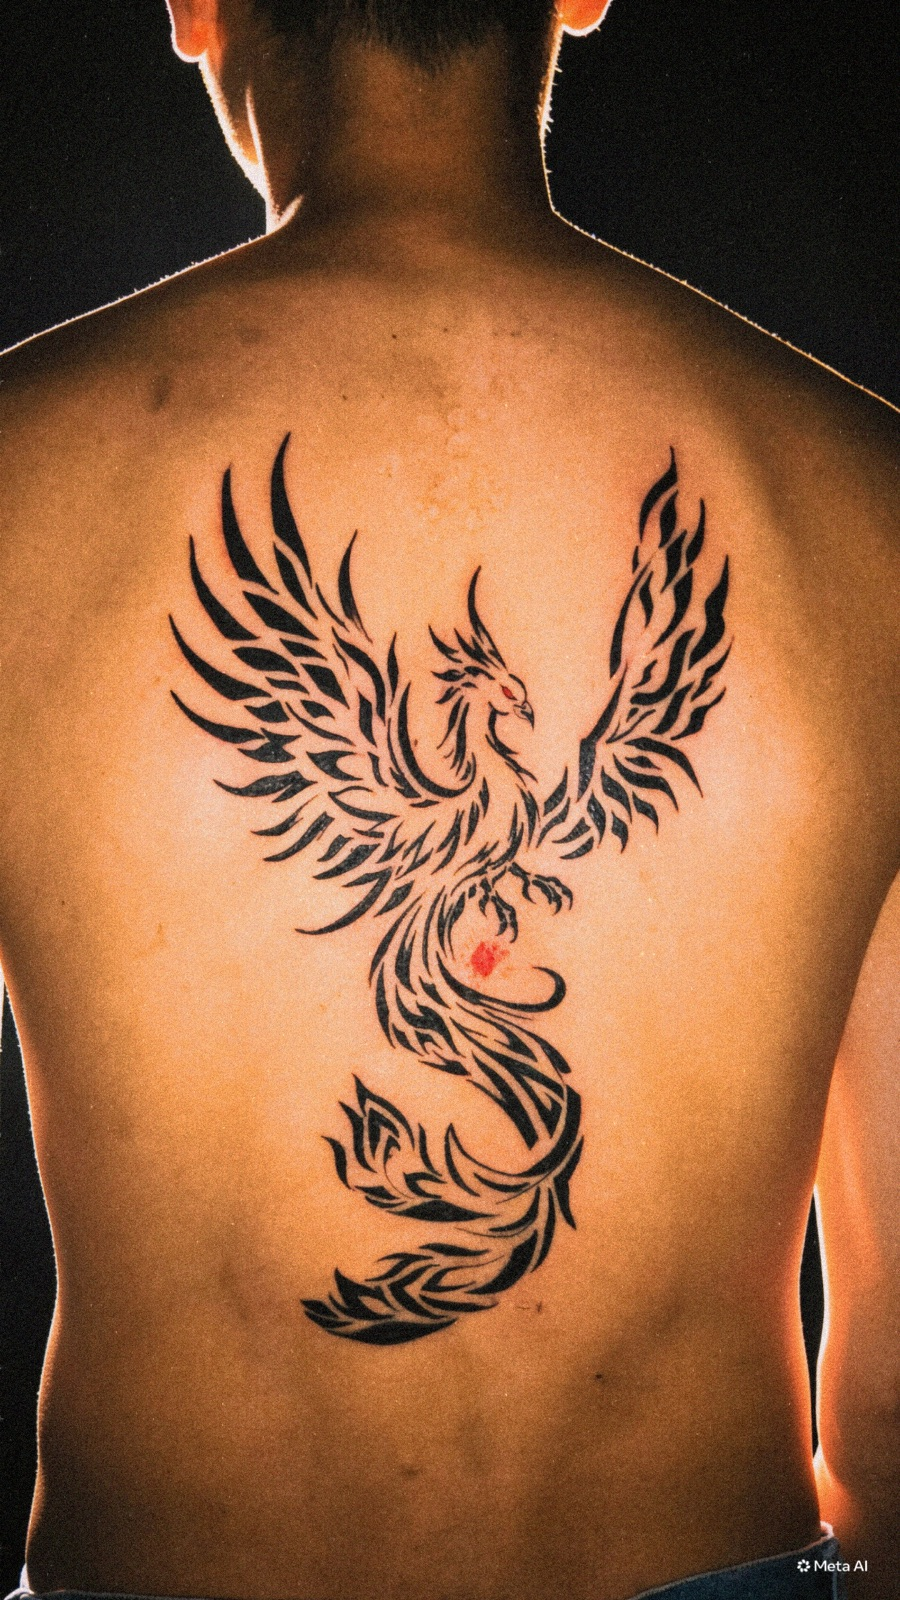
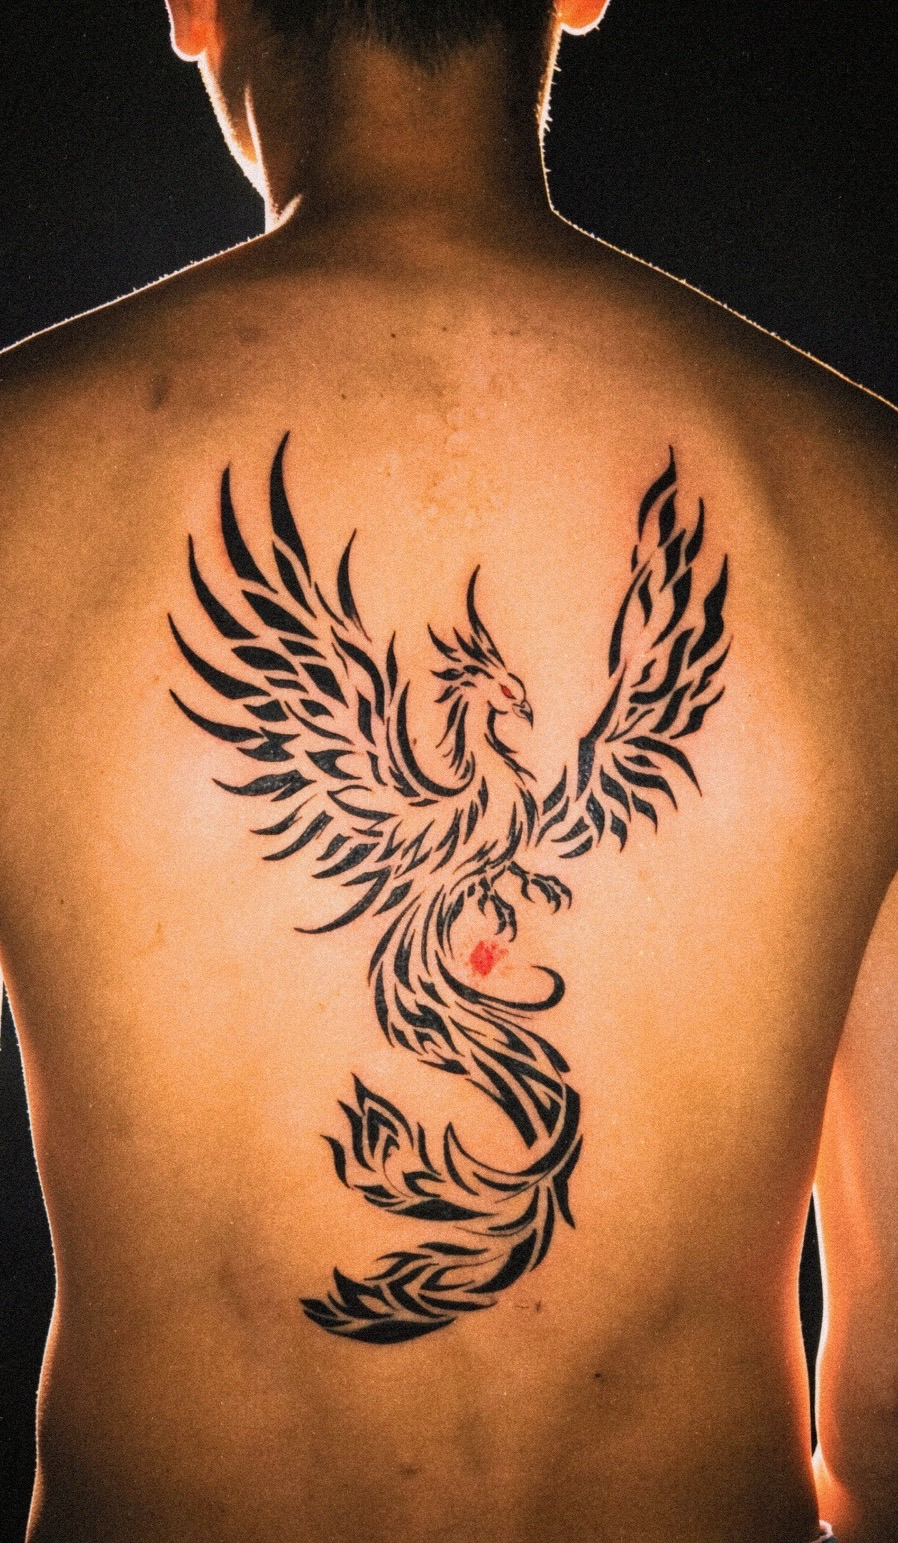
Capa com O Eixo, a pergunta do fim (o que vamos tatuar?), o studio no O dia, imagem do link corrigida, sem a marca da IA na fênix

diff --git a/index.html b/index.html
@@ -79,7 +79,7 @@ body::after{content:"";position:fixed;inset:0;pointer-events:none;z-index:100;op
 .capa{position:relative;overflow:hidden}
 .capa-foto{position:relative;height:60svh;min-height:400px;overflow:hidden;
   -webkit-mask-image:linear-gradient(180deg,#000 0%,#000 60%,transparent 97%);mask-image:linear-gradient(180deg,#000 0%,#000 60%,transparent 97%)}
-.capa-foto img{position:absolute;inset:0;width:100%;height:100%;object-fit:cover;object-position:50% 42%;transform:scale(1.04);animation:respira 18s ease-out forwards}
+.capa-foto img{position:absolute;inset:0;width:100%;height:100%;object-fit:cover;object-position:50% 30%;transform:scale(1.04);animation:respira 18s ease-out forwards}
 @keyframes respira{to{transform:scale(1)}}
 .capa-foto::after{content:"";position:absolute;inset:0;
   background:linear-gradient(180deg,rgba(11,11,11,.55) 0%,rgba(11,11,11,0) 20%,rgba(11,11,11,0) 48%,rgba(11,11,11,.7) 74%,var(--preto) 94%)}
@@ -164,7 +164,28 @@ section{padding:48px 0}
 .fim{text-align:left;padding:60px 0 72px}
 .fim h2{font-size:clamp(46px,9.5vw,132px);max-width:14ch}
 .fim p{margin-top:20px;font-size:clamp(18px,2vw,21px);color:var(--cinza);max-width:38ch}
-.fim .acoes{margin-top:34px}
+.mimos{list-style:none;display:flex;flex-wrap:wrap;gap:8px;margin-top:20px}
+.mimos li{font-size:13px;letter-spacing:.04em;padding:8px 13px;border:1px solid var(--linha);border-radius:999px;color:var(--off)}
+.escolha{margin-top:34px;max-width:720px}
+.escolha fieldset{border:0;padding:0;margin:0;min-width:0}
+.escolha legend{padding:0;margin-bottom:14px}
+.opcoes{display:grid;gap:10px}
+.opcao{position:relative;display:block;padding:18px 18px 18px 52px;border:1px solid var(--linha);border-radius:14px;cursor:pointer;transition:border-color .2s,background .2s}
+.opcao input{position:absolute;opacity:0;pointer-events:none}
+.opcao::before{content:"";position:absolute;left:18px;top:20px;width:18px;height:18px;border-radius:50%;border:1.5px solid var(--cinza);transition:all .2s}
+.opcao:hover{border-color:rgba(236,232,225,.35)}
+.opcao.marcada{border-color:var(--ciano);background:rgba(79,211,234,.06)}
+.opcao.marcada::before{border-color:var(--ciano);background:var(--ciano);box-shadow:inset 0 0 0 4px var(--preto)}
+.opcao .tipo{display:block;font-size:11px;letter-spacing:.14em;text-transform:uppercase;color:var(--ciano);margin-bottom:6px}
+.opcao b{display:block;font-weight:600;font-size:17px;line-height:1.3;color:var(--off)}
+.opcao .det{display:block;margin-top:4px;font-size:14px;color:var(--cinza)}
+.resposta{margin-top:18px;padding:22px;border-radius:14px;background:var(--preto-2);border:1px solid var(--linha)}
+.resposta h3{font-family:var(--display);font-weight:400;text-transform:uppercase;font-size:clamp(26px,3.6vw,36px);line-height:1.18}
+.fim .resposta p{margin-top:10px;font-size:16px;color:var(--cinza);max-width:52ch}
+.resposta .btn{margin-top:18px}
+.resposta small{display:block;margin-top:12px;font-size:13px;color:var(--cinza)}
+.fim .fim-ig{margin-top:28px;font-size:14px}
+.fim-ig a{color:var(--off);text-decoration:underline;text-underline-offset:3px}
 
 /* ---------- rodapé ---------- */
 footer{border-top:1px solid var(--linha);padding:36px 0 120px;font-size:14px;color:var(--cinza)}
@@ -175,6 +196,7 @@ footer a:hover{color:var(--off)}
 /* ---------- barra fixa no celular ---------- */
 .barra{position:fixed;left:12px;right:12px;bottom:calc(12px + env(safe-area-inset-bottom));z-index:60;transform:translateY(140%);transition:transform .35s cubic-bezier(.2,.7,.2,1)}
 .barra.ver{transform:none}
+.barra.ver.some{transform:translateY(140%)}
 .barra .btn{width:100%;box-shadow:0 10px 30px rgba(0,0,0,.5)}
 
 /* ---------- a peça aberta ---------- */
@@ -198,9 +220,9 @@ dialog::backdrop{background:rgba(6,6,6,.96)}
 @media (min-width:760px){
   :root{--gutter:40px}
   .capa{min-height:100svh;display:flex;align-items:flex-end}
-  .capa-foto{position:absolute;inset:0 0 0 34%;height:auto;min-height:0;
-    -webkit-mask-image:linear-gradient(90deg,transparent 0%,#000 40%);mask-image:linear-gradient(90deg,transparent 0%,#000 40%)}
-  .capa-foto img{object-position:50% 35%}
+  .capa-foto{position:absolute;top:0;bottom:0;right:0;left:auto;width:min(54vw,820px);height:auto;min-height:0;
+    -webkit-mask-image:linear-gradient(90deg,transparent 0%,#000 32%);mask-image:linear-gradient(90deg,transparent 0%,#000 32%)}
+  .capa-foto img{object-position:50% 28%}
   .capa-foto::after{background:
     linear-gradient(180deg,rgba(11,11,11,.55) 0%,rgba(11,11,11,0) 22%,rgba(11,11,11,0) 72%,var(--preto) 100%)}
   .capa-texto{margin-top:0;padding-top:120px;padding-bottom:72px}
@@ -234,7 +256,7 @@ dialog::backdrop{background:rgba(6,6,6,.96)}
 <header class="topo" id="topo">
   <div class="wrap">
     <a class="marca" href="#" aria-label="Cravejado, início"><svg style="color:var(--ciano)"><use href="#i-estrela"/></svg>CRVJD</a>
-    <a class="topo-cta" data-wa href="https://wa.me/5562982864646" target="_blank" rel="noopener">Orçamento</a>
+    <a class="topo-cta" href="#orcamento">Orçamento</a>
   </div>
 </header>
 
@@ -245,7 +267,7 @@ dialog::backdrop{background:rgba(6,6,6,.96)}
     <div class="capa-foto">
       <picture>
         <source media="(min-width: 760px) and (min-aspect-ratio: 1/1)" srcset="fotos/capa-larga.jpg">
-        <img src="fotos/capa-alta.jpg" alt="Fênix nas costas, a peça O Irrevogável, tatuada por Felipe Ormond" fetchpriority="high">
+        <img src="fotos/capa-alta.jpg" alt="Espada ao longo da coluna, a peça O Eixo, tatuada por Felipe Ormond" fetchpriority="high">
       </picture>
     </div>
     <div class="wrap capa-texto">
@@ -254,7 +276,7 @@ dialog::backdrop{background:rgba(6,6,6,.96)}
       <p class="sub">Ela tem que encaixar no seu corpo.</p>
       <p class="estilos">Realismo · Fineline · Cravejado</p>
       <div class="acoes">
-        <a class="btn btn-cheio" data-wa href="https://wa.me/5562982864646" target="_blank" rel="noopener"><svg><use href="#i-zap"/></svg>Pedir orçamento</a>
+        <a class="btn btn-cheio" href="#orcamento">Pedir orçamento</a>
         <a class="btn btn-vazio" href="#trabalho">Ver o trabalho</a>
       </div>
       <p class="agenda"><i></i><span data-agenda>Agenda de novembro aberta · Goiânia</span></p>
@@ -284,6 +306,7 @@ dialog::backdrop{background:rgba(6,6,6,.96)}
           <div class="traco"></div>
           <p>A tatuagem é pra sempre. A lembrança do dia em que ela foi feita também.</p>
           <p>Por isso o atendimento é individual: ambiente reservado, sem pressa, sem fila e com tudo girando em torno de você.</p>
+          <ul class="mimos" aria-label="No studio"><li>Videogame</li><li>Café</li><li>Filmes e séries</li></ul>
         </div>
       </div>
     </div>
@@ -341,14 +364,26 @@ dialog::backdrop{background:rgba(6,6,6,.96)}
   </section>
 
   <!-- FIM -->
-  <section class="fim">
-    <div class="wrap surge">
-      <h2 class="titulo">Sabe aquela ideia que você carrega há anos<span style="color:var(--ciano)">?</span></h2>
-      <p>Conta ela pra mim. Eu te mostro a melhor forma de encaixar ela no seu corpo.</p>
-      <div class="acoes">
-        <a class="btn btn-cheio" data-wa href="https://wa.me/5562982864646" target="_blank" rel="noopener"><svg><use href="#i-zap"/></svg>Pedir orçamento</a>
-        <a class="btn btn-vazio" data-ig href="https://instagram.com/ocravejado" target="_blank" rel="noopener">@ocravejado</a>
+  <section class="fim" id="orcamento">
+    <div class="wrap">
+      <div class="surge">
+        <h2 class="titulo">Sabe aquela ideia que você carrega há anos<span style="color:var(--ciano)">?</span></h2>
+        <p>Conta ela pra mim. Eu te mostro a melhor forma de encaixar ela no seu corpo.</p>
       </div>
+      <form class="escolha surge" data-escolha onsubmit="return false">
+        <fieldset>
+          <legend class="olho">O que vamos tatuar? · toca numa opção</legend>
+          <div class="opcoes" data-opcoes></div>
+        </fieldset>
+        <div class="resposta" data-resposta hidden aria-live="polite">
+          <h3></h3>
+          <p></p>
+          <a class="btn btn-cheio" href="https://wa.me/5562982864646" target="_blank" rel="noopener"><svg><use href="#i-zap"/></svg><span>Pedir orçamento</span></a>
+          <small>Valor e data na mesma conversa.</small>
+        </div>
+        <noscript><a class="btn btn-cheio" href="https://wa.me/5562982864646" target="_blank" rel="noopener">Pedir orçamento no WhatsApp</a></noscript>
+      </form>
+      <p class="fim-ig">Quer ver mais antes? <a data-ig href="https://instagram.com/ocravejado" target="_blank" rel="noopener">@ocravejado</a></p>
     </div>
   </section>
 
@@ -366,7 +401,7 @@ dialog::backdrop{background:rgba(6,6,6,.96)}
 </footer>
 
 <div class="barra" id="barra">
-  <a class="btn btn-cheio" data-wa href="https://wa.me/5562982864646" target="_blank" rel="noopener"><svg><use href="#i-zap"/></svg>Pedir orçamento no WhatsApp</a>
+  <a class="btn btn-cheio" href="#orcamento">Pedir orçamento</a>
 </div>
 
 <dialog id="vista" aria-label="Peça ampliada">
@@ -404,6 +439,29 @@ dialog::backdrop{background:rgba(6,6,6,.96)}
     av.hidden = false;
   }
   if (S.uber) document.querySelectorAll("[data-uber]").forEach(function(a){ a.href = S.uber; });
+
+  // a pergunta do fim
+  var caixa = document.querySelector("[data-opcoes]"), resp = document.querySelector("[data-resposta]");
+  if (caixa && S.opcoes && S.opcoes.length){
+    S.opcoes.forEach(function(o, i){
+      var l = document.createElement("label"); l.className = "opcao";
+      var r = document.createElement("input"); r.type = "radio"; r.name = "projeto"; r.value = i;
+      var tp = document.createElement("span"); tp.className = "tipo"; tp.textContent = o.tipo;
+      var b = document.createElement("b"); b.textContent = o.titulo;
+      var d = document.createElement("span"); d.className = "det"; d.textContent = o.detalhe;
+      l.appendChild(r); l.appendChild(tp); l.appendChild(b); l.appendChild(d);
+      r.addEventListener("change", function(){
+        caixa.querySelectorAll(".opcao").forEach(function(x){ x.classList.toggle("marcada", x === l); });
+        resp.querySelector("h3").textContent = o.resposta;
+        resp.querySelector("p").textContent = o.texto;
+        resp.querySelector("a span").textContent = o.botao;
+        resp.querySelector("a").href = wa(o.mensagem);
+        var primeira = resp.hidden; resp.hidden = false;
+        if (primeira) resp.scrollIntoView({behavior:"smooth", block:"nearest"});
+      });
+      caixa.appendChild(l);
+    });
+  } else if (resp){ resp.hidden = false; resp.querySelector("h3").remove(); resp.querySelector("p").remove(); resp.querySelector("a").href = wa(); }
 
   // galeria
   var lista = S.galeria || [];
@@ -466,6 +524,10 @@ dialog::backdrop{background:rgba(6,6,6,.96)}
       var fora = !es[0].isIntersecting;
       barra.classList.toggle("ver", fora);
     }, {threshold:0.15}).observe(capa);
+    var fim = document.getElementById("orcamento");
+    if (fim) new IntersectionObserver(function(es){
+      barra.classList.toggle("some", es[0].isIntersecting);
+    }, {threshold:0.05}).observe(fim);
     var io = new IntersectionObserver(function(es){
       es.forEach(function(e){ if (e.isIntersecting){ e.target.classList.add("ok"); io.unobserve(e.target); } });
     }, {rootMargin:"0px 0px -8% 0px"});

diff --git a/conteudo.js b/conteudo.js
@@ -23,6 +23,20 @@ window.SITE = {
     { texto: "Guest em São Paulo · 19 a 22/11", mensagem: "Oi, Felipe! Vim pelo seu site. Vi que você vai estar em São Paulo de 19 a 22/11 e quero tatuar." }
   ],
 
+  // A PERGUNTA DO FIM ("O que vamos tatuar?"). A pessoa toca numa opção, aparece a resposta
+  // e o botão manda uma mensagem diferente no WhatsApp: você já sabe o tipo de projeto antes de abrir.
+  opcoes: [
+    { tipo: "Peça nova", titulo: "Tenho uma ideia e quero ver onde ela encaixa", detalhe: "Pronta ou não. O lugar a gente acha junto.",
+      resposta: "A gente começa pelo lugar.", texto: "Me manda a ideia e uma foto de onde você pensou. Eu te mostro onde ela encaixa melhor no seu corpo, antes de qualquer desenho.",
+      botao: "Quero ver onde encaixa", mensagem: "Oi, Felipe! Vim pelo seu site. Tenho uma ideia de tattoo e quero ver onde ela encaixa." },
+    { tipo: "Projeto grande", titulo: "Quero fechar um braço, as costas ou a perna", detalhe: "Uma peça só, ocupando a região inteira.",
+      resposta: "Projeto grande se planeja inteiro.", texto: "Antes da primeira sessão, a gente define o encaixe do todo e quantas sessões vão ser. Cada parte já nasce no lugar certo.",
+      botao: "Quero fechar uma região", mensagem: "Oi, Felipe! Vim pelo seu site e quero fechar uma região inteira (braço, costas ou perna)." },
+    { tipo: "Junto das que já tenho", titulo: "Quero uma que converse com as tattoos que já tenho", detalhe: "A nova entra no espaço que sobrou, combinando com o que já está ali.",
+      resposta: "A nova tem que conversar com as antigas.", texto: "Me manda uma foto de como está hoje. Eu te mostro onde a nova entra e como ela se liga ao que você já tem.",
+      botao: "Quero encaixar com as minhas", mensagem: "Oi, Felipe! Vim pelo seu site. Já tenho tattoos e quero uma nova que converse com elas." }
+  ],
+
   // O Uber pro studio (mesmo destino do cravejado.art.br)
   uber: "https://m.uber.com/ul/?action=setPickup&dropoff[latitude]=-16.6981144&dropoff[longitude]=-49.2238241&dropoff[nickname]=CRVJD%20Studio",
 
@@ -49,7 +63,7 @@ window.SITE = {
     { foto: "o-flamingo",         v: "cbbf8a", nome: "O Flamingo", estilo: "Cravejado" },
     { foto: "a-abelha",           v: "605588", nome: "A Abelha", estilo: "Cravejado" },
     { foto: "a-flor-do-silencio", v: "0886ae", nome: "A Flor do Silêncio", estilo: "Fineline" },
-    { foto: "o-irrevogavel",      v: "ee5dc6", nome: "O Irrevogável", estilo: "Cravejado" }
+    { foto: "o-irrevogavel",      v: "fa2b90", nome: "O Irrevogável", estilo: "Cravejado" }
   ]
 
 };

diff --git a/README.md b/README.md
@@ -18,6 +18,8 @@ O nome do arquivo é o que aparece embaixo da foto:
 - **Tirar uma:** apaga da pasta.
 - **Mudar a ordem:** muda os números.
 
+**A capa** vem da subpasta `GALERIA DO SITE/CAPA` (a primeira foto de lá). O recorte da capa e da imagem do link no WhatsApp fica com o VIVO.
+
 **A foto da seção "O dia"** (você tatuando) vem da subpasta `GALERIA DO SITE/O DIA`: a primeira foto de lá é a que aparece. Pra trocar, troca o arquivo.
 
 Depois fala pro VIVO: "atualiza o site". Ele roda o `atualizar-galeria.py` (que mora fora do site, em `4 SISTEMAS/SITE/`), e o site muda em 1 ou 2 minutos.
@@ -29,6 +31,8 @@ Depois fala pro VIVO: "atualiza o site". Ele roda o `atualizar-galeria.py` (que 
 | mudar o mês ou a cidade da agenda | `conteudo.js` → `agenda` |
 | trocar o número do WhatsApp | `conteudo.js` → `whatsapp` (só números, 55 + DDD) |
 | mudar a mensagem que já vem escrita | `conteudo.js` → `mensagem` |
+| mudar os avisos da capa (vagas, viagem) | `conteudo.js` → `avisos` |
+| mudar as opções da pergunta do fim | `conteudo.js` → `opcoes` |
 
 Os textos fixos (o título, "como funciona", as perguntas) ficam no `index.html`.
 
